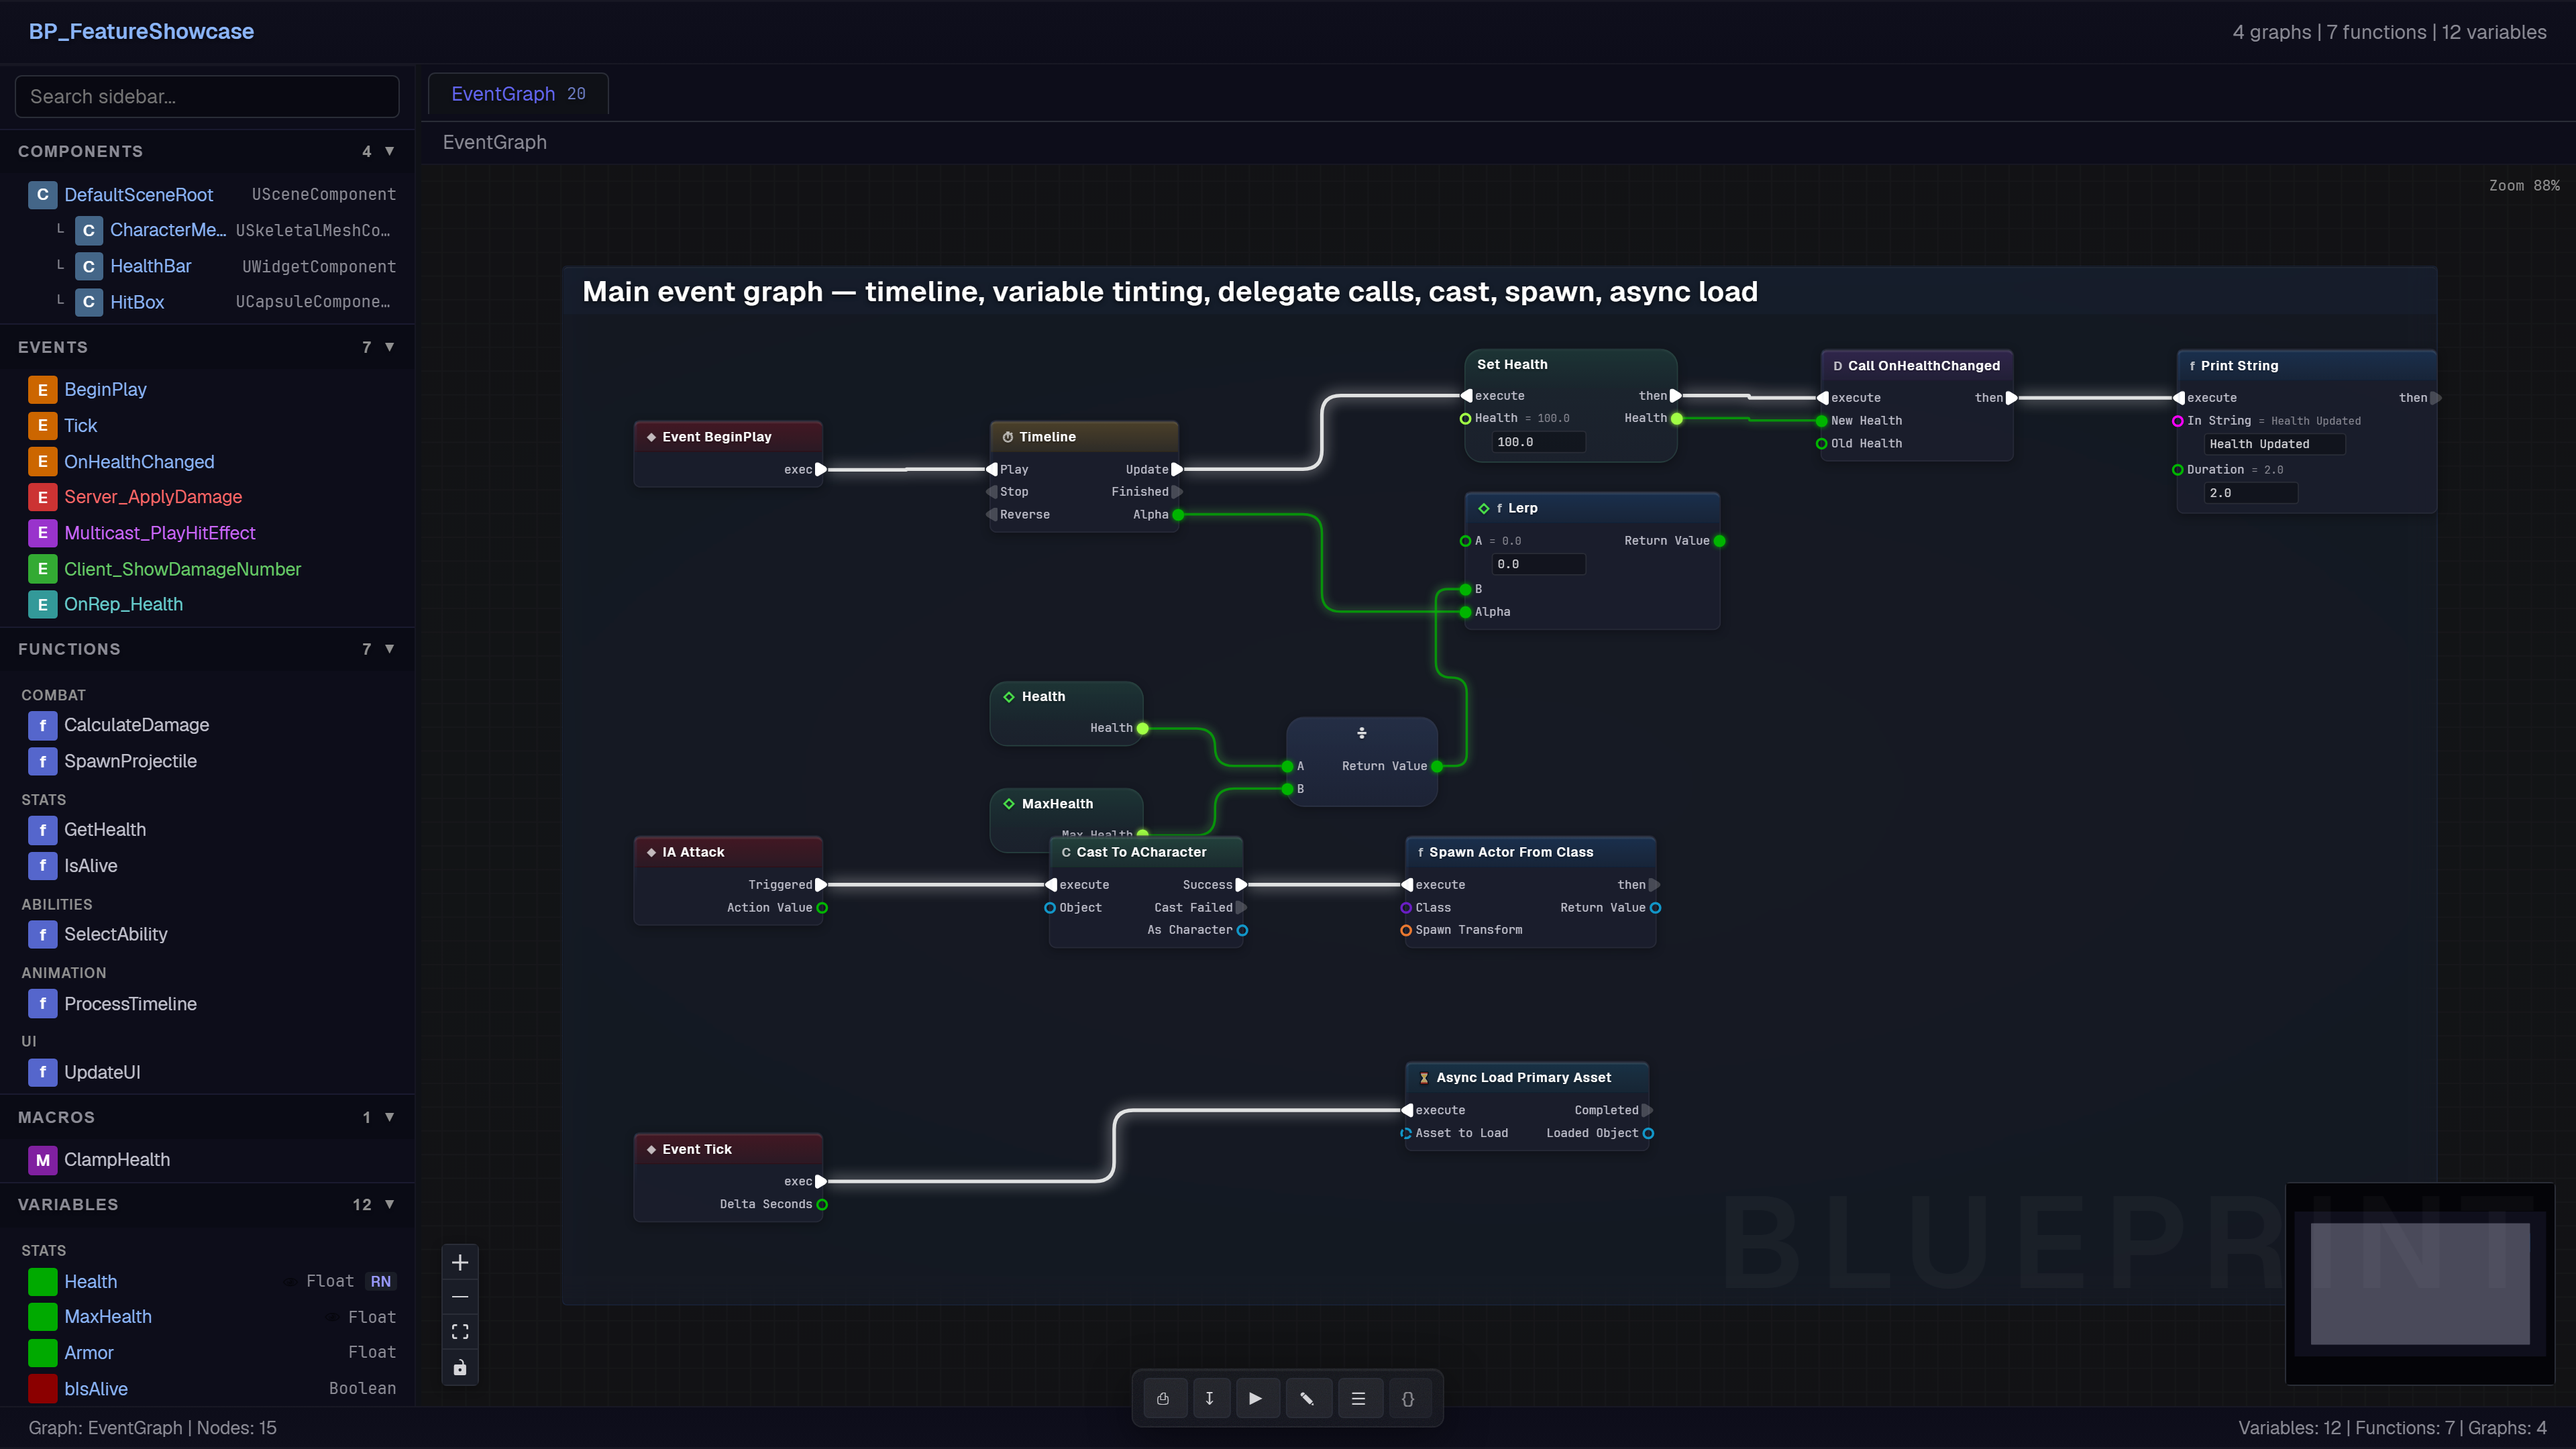
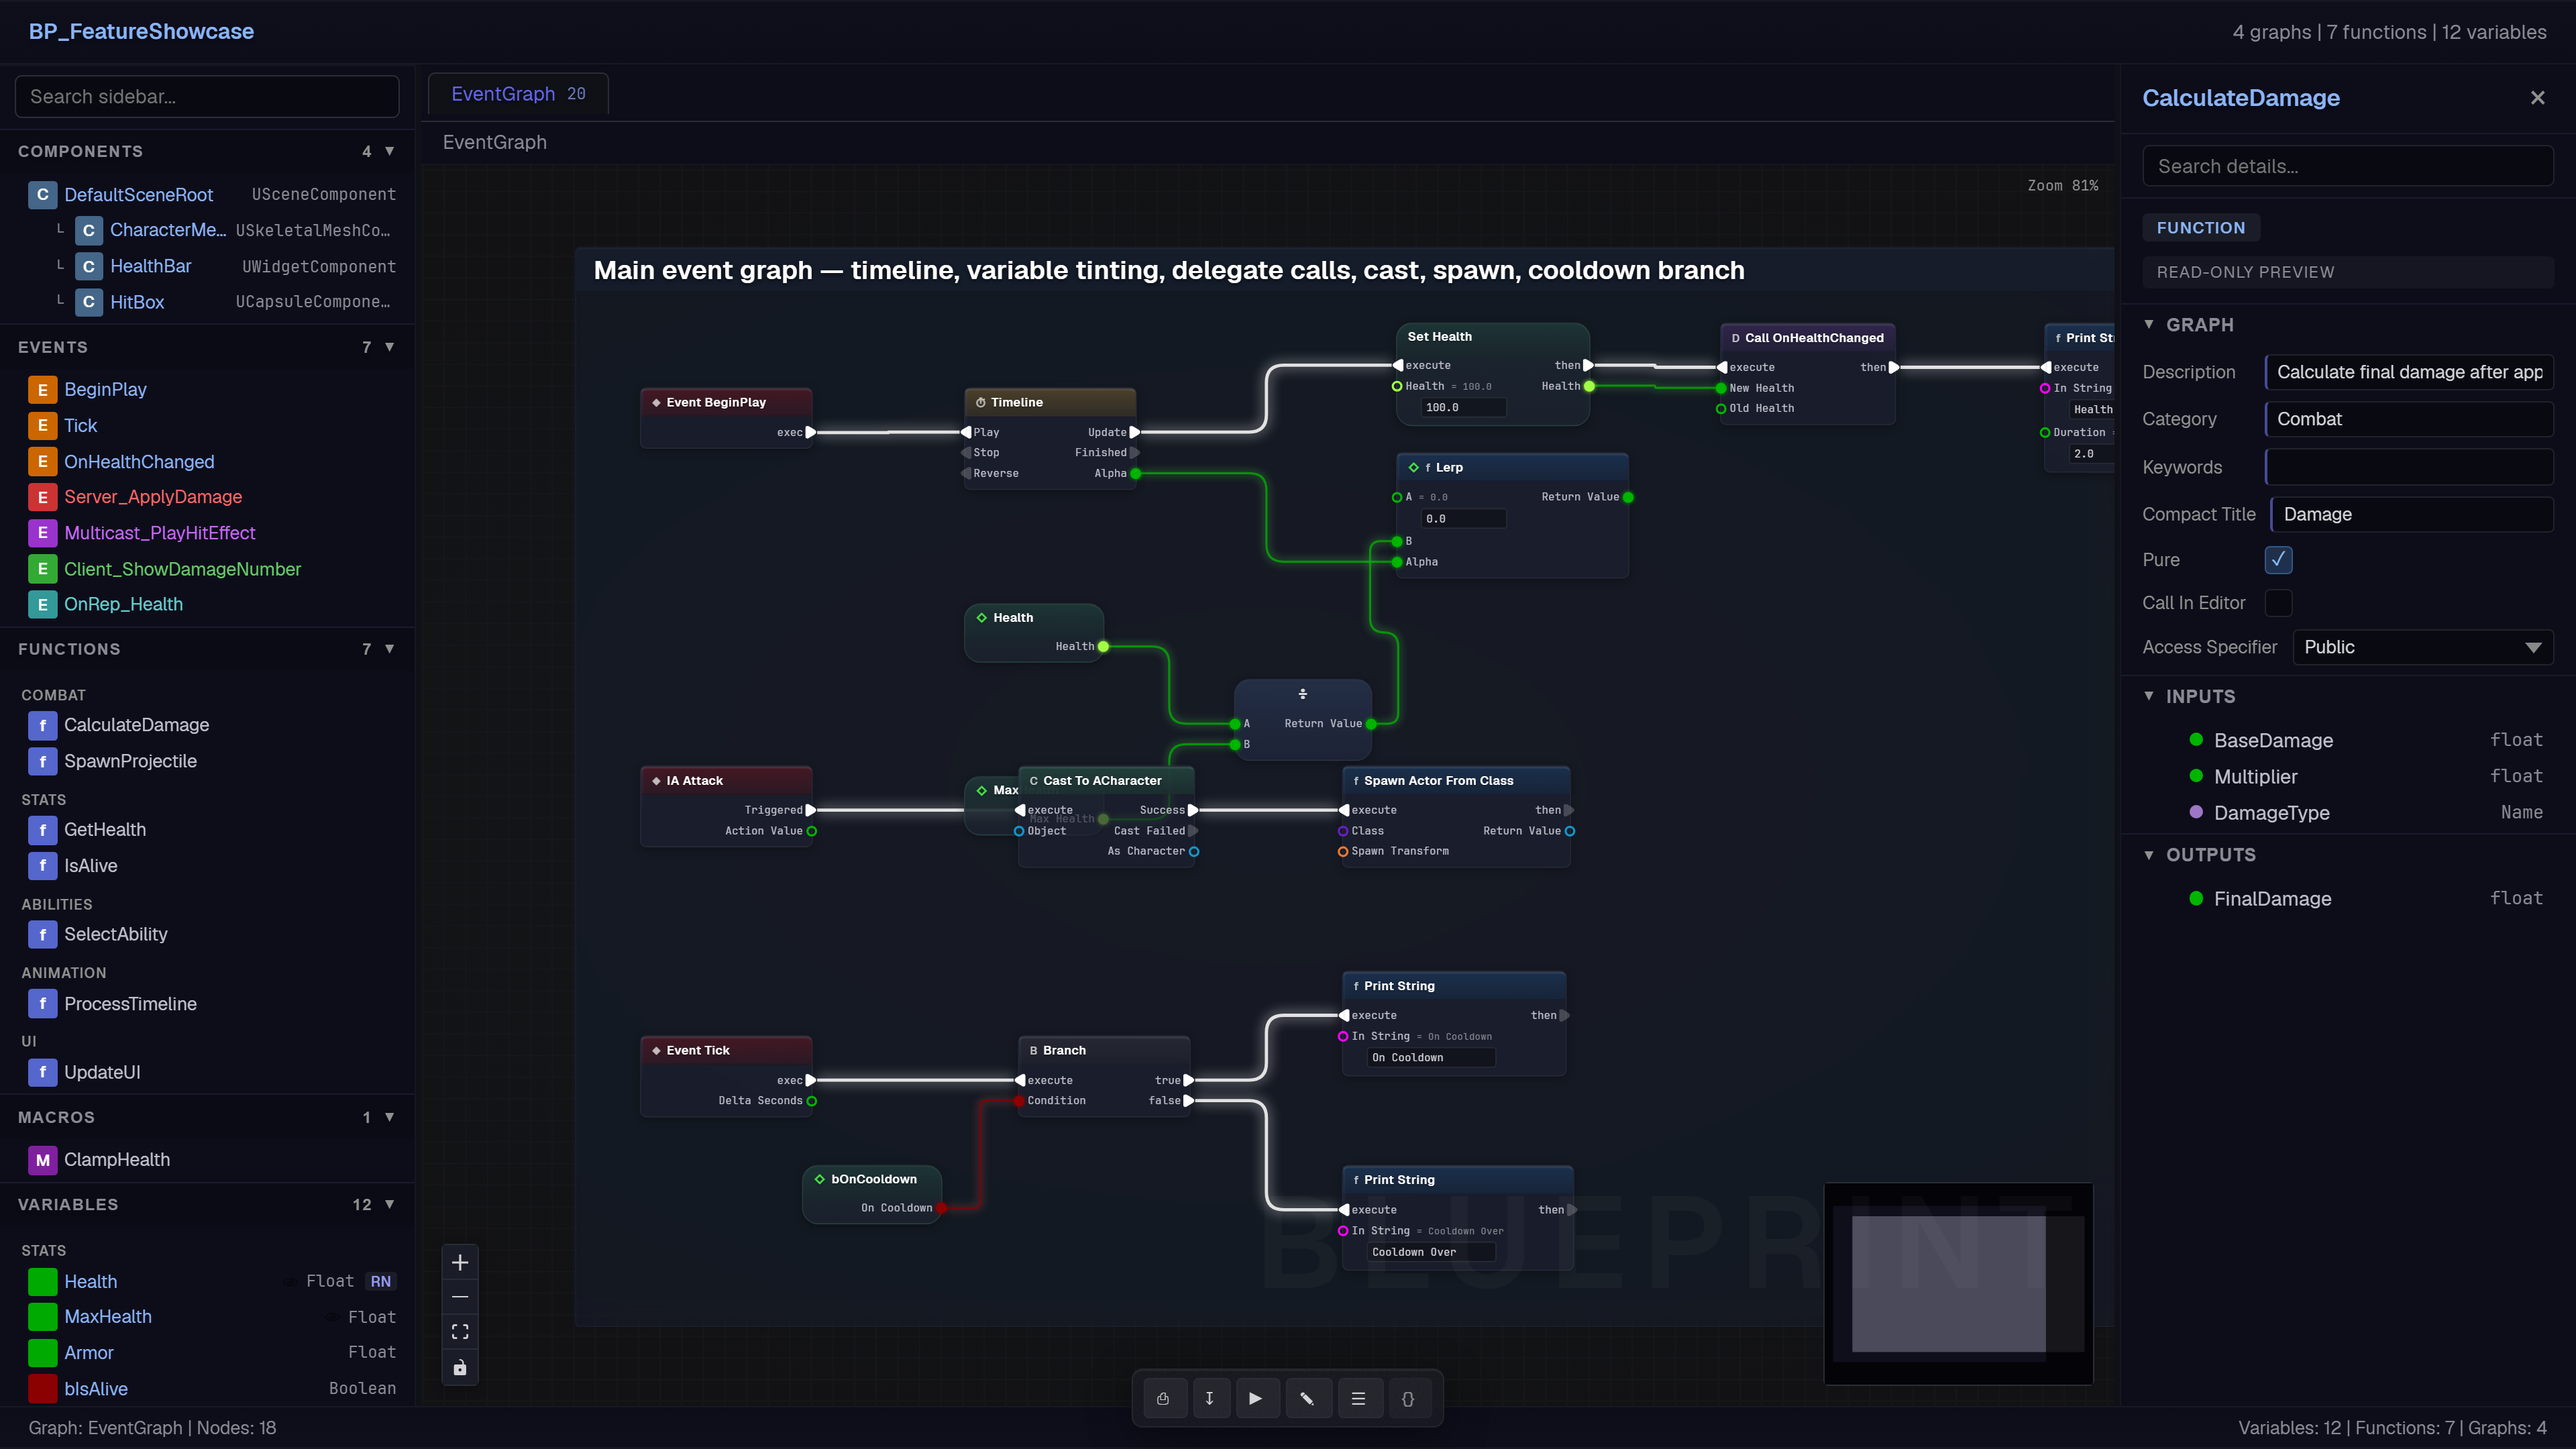
docs(ue-flow): redo hero image with details panel and cooldown branch
- Replace async load on Event Tick with Branch checking bOnCooldown
  variable → "On Cooldown" / "Cooldown Over" PrintStrings
- Fix Health/MaxHealth variable node overlap (increase Y spacing)
- Widen comment block for right-side padding
- Regenerate preview.png with CalculateDamage details panel open

diff --git a/examples/mock-render-v4-full-showcase.html b/examples/mock-render-v4-full-showcase.html
@@ -116,21 +116,21 @@
         },
         {
           "id": "vget_hp", "type": "variable_get", "nodeClass": "K2Node_VariableGet", "nodeGuid": "VG000001",
-          "position": { "x": 300, "y": 220 }, "title": "Health", "properties": {},
+          "position": { "x": 300, "y": 200 }, "title": "Health", "properties": {},
           "pins": [
             { "id": "vget_hp_out", "name": "Health", "friendlyName": "Health", "direction": "output", "category": "real", "subCategory": "double", "subCategoryObject": "", "containerType": "", "defaultValue": "", "isReference": false, "isConst": false, "isWeak": false, "hidden": false, "advancedView": false }
           ]
         },
         {
           "id": "vget_maxhp", "type": "variable_get", "nodeClass": "K2Node_VariableGet", "nodeGuid": "VG000002",
-          "position": { "x": 300, "y": 310 }, "title": "MaxHealth", "properties": {},
+          "position": { "x": 300, "y": 360 }, "title": "MaxHealth", "properties": {},
           "pins": [
             { "id": "vget_maxhp_out", "name": "MaxHealth", "friendlyName": "Max Health", "direction": "output", "category": "real", "subCategory": "double", "subCategoryObject": "", "containerType": "", "defaultValue": "", "isReference": false, "isConst": false, "isWeak": false, "hidden": false, "advancedView": false }
           ]
         },
         {
           "id": "div1", "type": "call_function", "nodeClass": "K2Node_PromotableOperator", "nodeGuid": "OP000001",
-          "position": { "x": 550, "y": 250 }, "title": "Divide", "properties": { "bIsPureFunc": true },
+          "position": { "x": 550, "y": 270 }, "title": "Divide", "properties": { "bIsPureFunc": true },
           "pins": [
             { "id": "div1_a", "name": "A", "friendlyName": "A", "direction": "input", "category": "real", "subCategory": "float", "subCategoryObject": "", "containerType": "", "defaultValue": "0.0", "isReference": false, "isConst": false, "isWeak": false, "hidden": false, "advancedView": false },
             { "id": "div1_b", "name": "B", "friendlyName": "B", "direction": "input", "category": "real", "subCategory": "float", "subCategoryObject": "", "containerType": "", "defaultValue": "1.0", "isReference": false, "isConst": false, "isWeak": false, "hidden": false, "advancedView": false },
@@ -190,13 +190,38 @@
           ]
         },
         {
-          "id": "async1", "type": "async_action", "nodeClass": "K2Node_AsyncAction", "nodeGuid": "AA000001",
-          "position": { "x": 650, "y": 540 }, "title": "Async Load Primary Asset", "properties": {},
+          "id": "vget_cd", "type": "variable_get", "nodeClass": "K2Node_VariableGet", "nodeGuid": "VG000003",
+          "position": { "x": 150, "y": 720 }, "title": "bOnCooldown", "properties": {},
           "pins": [
-            { "id": "async1_ei", "name": "execute", "friendlyName": "", "direction": "input", "category": "exec", "subCategory": "", "subCategoryObject": "", "containerType": "", "defaultValue": "", "isReference": false, "isConst": false, "isWeak": false, "hidden": false, "advancedView": false },
-            { "id": "async1_done", "name": "Completed", "friendlyName": "Completed", "direction": "output", "category": "exec", "subCategory": "", "subCategoryObject": "", "containerType": "", "defaultValue": "", "isReference": false, "isConst": false, "isWeak": false, "hidden": false, "advancedView": false },
-            { "id": "async1_asset", "name": "Asset", "friendlyName": "Asset to Load", "direction": "input", "category": "softobject", "subCategory": "", "subCategoryObject": "Object", "containerType": "", "defaultValue": "", "isReference": false, "isConst": false, "isWeak": true, "hidden": false, "advancedView": false },
-            { "id": "async1_ret", "name": "Loaded", "friendlyName": "Loaded Object", "direction": "output", "category": "object", "subCategory": "", "subCategoryObject": "Object", "containerType": "", "defaultValue": "", "isReference": false, "isConst": false, "isWeak": false, "hidden": false, "advancedView": false }
+            { "id": "vget_cd_out", "name": "bOnCooldown", "friendlyName": "On Cooldown", "direction": "output", "category": "bool", "subCategory": "", "subCategoryObject": "", "containerType": "", "defaultValue": "false", "isReference": false, "isConst": false, "isWeak": false, "hidden": false, "advancedView": false }
+          ]
+        },
+        {
+          "id": "branch1", "type": "branch", "nodeClass": "K2Node_IfThenElse", "nodeGuid": "BR000001",
+          "position": { "x": 350, "y": 600 }, "title": "Branch", "properties": {},
+          "pins": [
+            { "id": "branch1_ei", "name": "execute", "friendlyName": "", "direction": "input", "category": "exec", "subCategory": "", "subCategoryObject": "", "containerType": "", "defaultValue": "", "isReference": false, "isConst": false, "isWeak": false, "hidden": false, "advancedView": false },
+            { "id": "branch1_cond", "name": "Condition", "friendlyName": "Condition", "direction": "input", "category": "bool", "subCategory": "", "subCategoryObject": "", "containerType": "", "defaultValue": "false", "isReference": false, "isConst": false, "isWeak": false, "hidden": false, "advancedView": false },
+            { "id": "branch1_true", "name": "then", "friendlyName": "true", "direction": "output", "category": "exec", "subCategory": "", "subCategoryObject": "", "containerType": "", "defaultValue": "", "isReference": false, "isConst": false, "isWeak": false, "hidden": false, "advancedView": false },
+            { "id": "branch1_false", "name": "else", "friendlyName": "false", "direction": "output", "category": "exec", "subCategory": "", "subCategoryObject": "", "containerType": "", "defaultValue": "", "isReference": false, "isConst": false, "isWeak": false, "hidden": false, "advancedView": false }
+          ]
+        },
+        {
+          "id": "print_cd", "type": "call_function", "nodeClass": "K2Node_CallFunction", "nodeGuid": "CF000020",
+          "position": { "x": 650, "y": 540 }, "title": "Print String", "properties": {},
+          "pins": [
+            { "id": "print_cd_ei", "name": "execute", "friendlyName": "", "direction": "input", "category": "exec", "subCategory": "", "subCategoryObject": "", "containerType": "", "defaultValue": "", "isReference": false, "isConst": false, "isWeak": false, "hidden": false, "advancedView": false },
+            { "id": "print_cd_eo", "name": "then", "friendlyName": "", "direction": "output", "category": "exec", "subCategory": "", "subCategoryObject": "", "containerType": "", "defaultValue": "", "isReference": false, "isConst": false, "isWeak": false, "hidden": false, "advancedView": false },
+            { "id": "print_cd_str", "name": "InString", "friendlyName": "In String", "direction": "input", "category": "string", "subCategory": "", "subCategoryObject": "", "containerType": "", "defaultValue": "On Cooldown", "isReference": false, "isConst": false, "isWeak": false, "hidden": false, "advancedView": false }
+          ]
+        },
+        {
+          "id": "print_cdover", "type": "call_function", "nodeClass": "K2Node_CallFunction", "nodeGuid": "CF000021",
+          "position": { "x": 650, "y": 720 }, "title": "Print String", "properties": {},
+          "pins": [
+            { "id": "print_cdover_ei", "name": "execute", "friendlyName": "", "direction": "input", "category": "exec", "subCategory": "", "subCategoryObject": "", "containerType": "", "defaultValue": "", "isReference": false, "isConst": false, "isWeak": false, "hidden": false, "advancedView": false },
+            { "id": "print_cdover_eo", "name": "then", "friendlyName": "", "direction": "output", "category": "exec", "subCategory": "", "subCategoryObject": "", "containerType": "", "defaultValue": "", "isReference": false, "isConst": false, "isWeak": false, "hidden": false, "advancedView": false },
+            { "id": "print_cdover_str", "name": "InString", "friendlyName": "In String", "direction": "input", "category": "string", "subCategory": "", "subCategoryObject": "", "containerType": "", "defaultValue": "Cooldown Over", "isReference": false, "isConst": false, "isWeak": false, "hidden": false, "advancedView": false }
           ]
         },
         {
@@ -211,8 +236,8 @@
         },
         {
           "id": "nc_main", "type": "comment", "nodeClass": "EdGraphNode_Comment", "nodeGuid": "NC000001",
-          "position": { "x": -50, "y": -130 }, "title": "Main event graph — timeline, variable tinting, delegate calls, cast, spawn, async load",
-          "properties": { "NodeWidth": 1500, "NodeHeight": 800, "CommentColor": "(R=0.15,G=0.25,B=0.45,A=0.2)" },
+          "position": { "x": -50, "y": -130 }, "title": "Main event graph — timeline, variable tinting, delegate calls, cast, spawn, cooldown branch",
+          "properties": { "NodeWidth": 1700, "NodeHeight": 1000, "CommentColor": "(R=0.15,G=0.25,B=0.45,A=0.2)" },
           "pins": []
         }
       ],
@@ -229,7 +254,10 @@
         { "id": "e10", "source": "del_call", "sourcePin": "then", "target": "print_alive", "targetPin": "execute", "category": "exec" },
         { "id": "e11", "source": "ev_input", "sourcePin": "Triggered", "target": "cast1", "targetPin": "execute", "category": "exec" },
         { "id": "e12", "source": "cast1", "sourcePin": "Success", "target": "spawn1", "targetPin": "execute", "category": "exec" },
-        { "id": "e13", "source": "ev_tick", "sourcePin": "exec", "target": "async1", "targetPin": "execute", "category": "exec" }
+        { "id": "e13", "source": "ev_tick", "sourcePin": "exec", "target": "branch1", "targetPin": "execute", "category": "exec" },
+        { "id": "e14", "source": "vget_cd", "sourcePin": "bOnCooldown", "target": "branch1", "targetPin": "Condition", "category": "bool" },
+        { "id": "e15", "source": "branch1", "sourcePin": "then", "target": "print_cd", "targetPin": "execute", "category": "exec" },
+        { "id": "e16", "source": "branch1", "sourcePin": "else", "target": "print_cdover", "targetPin": "execute", "category": "exec" }
       ]
     },
     "Sprint8Features": {
